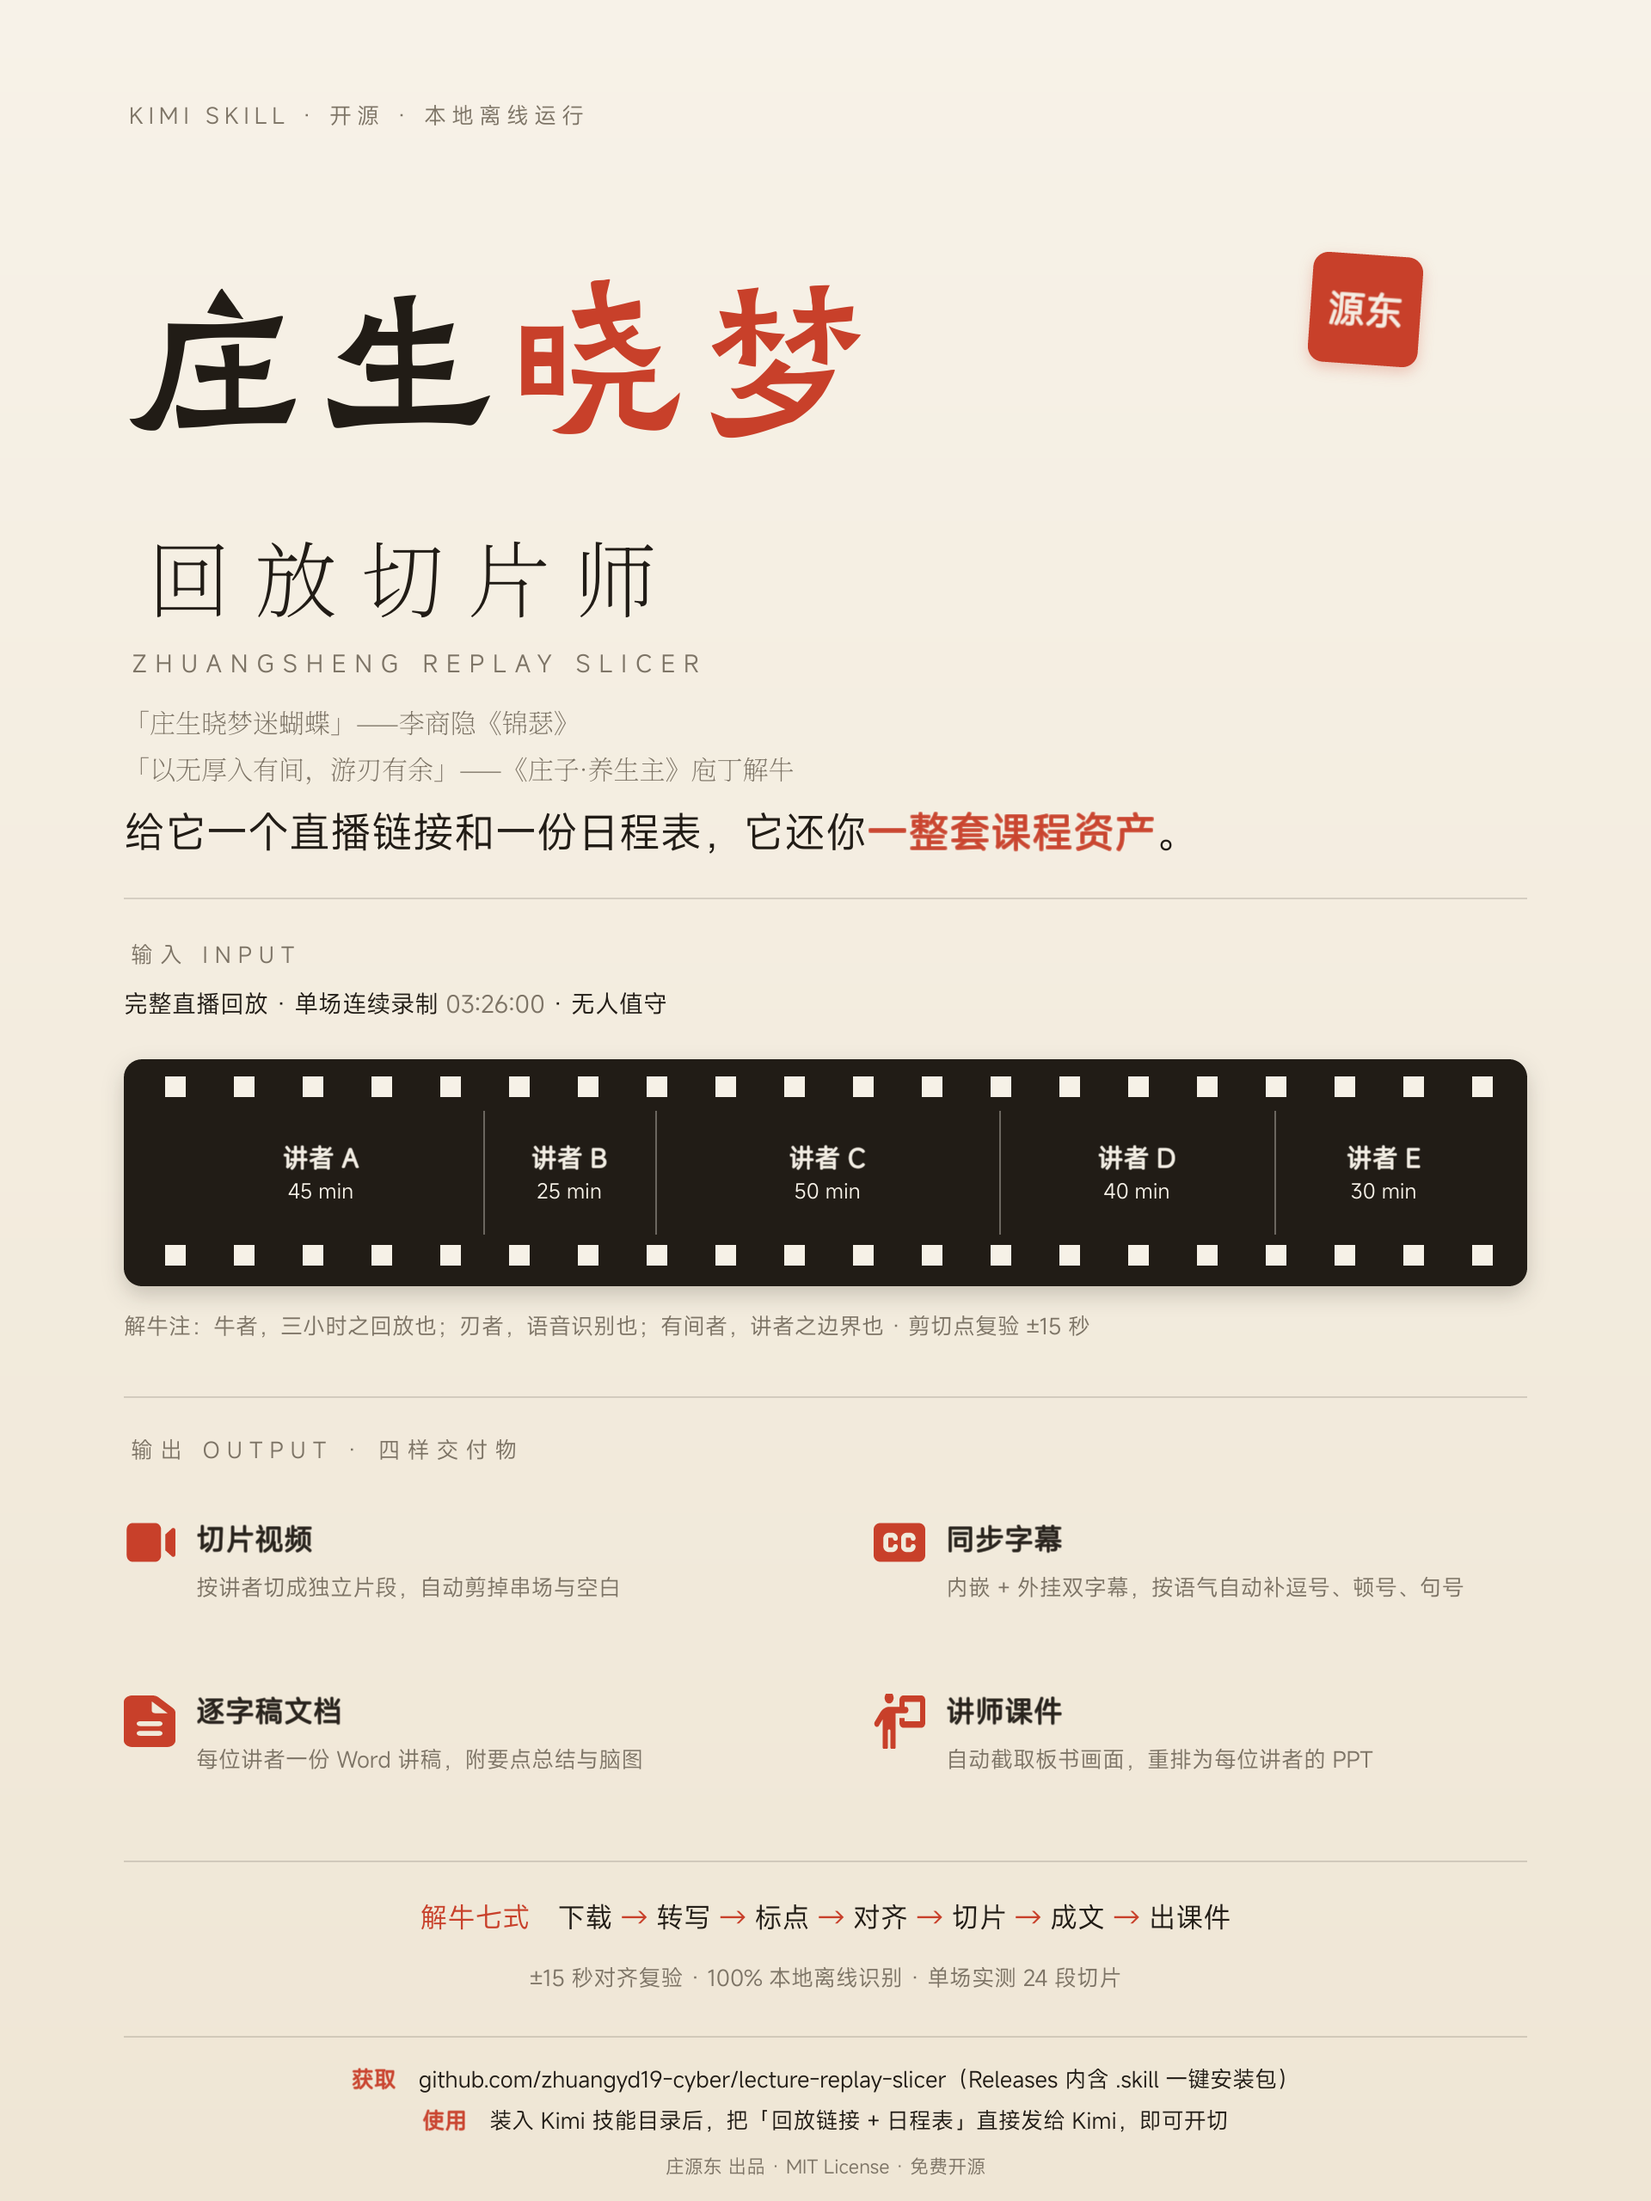
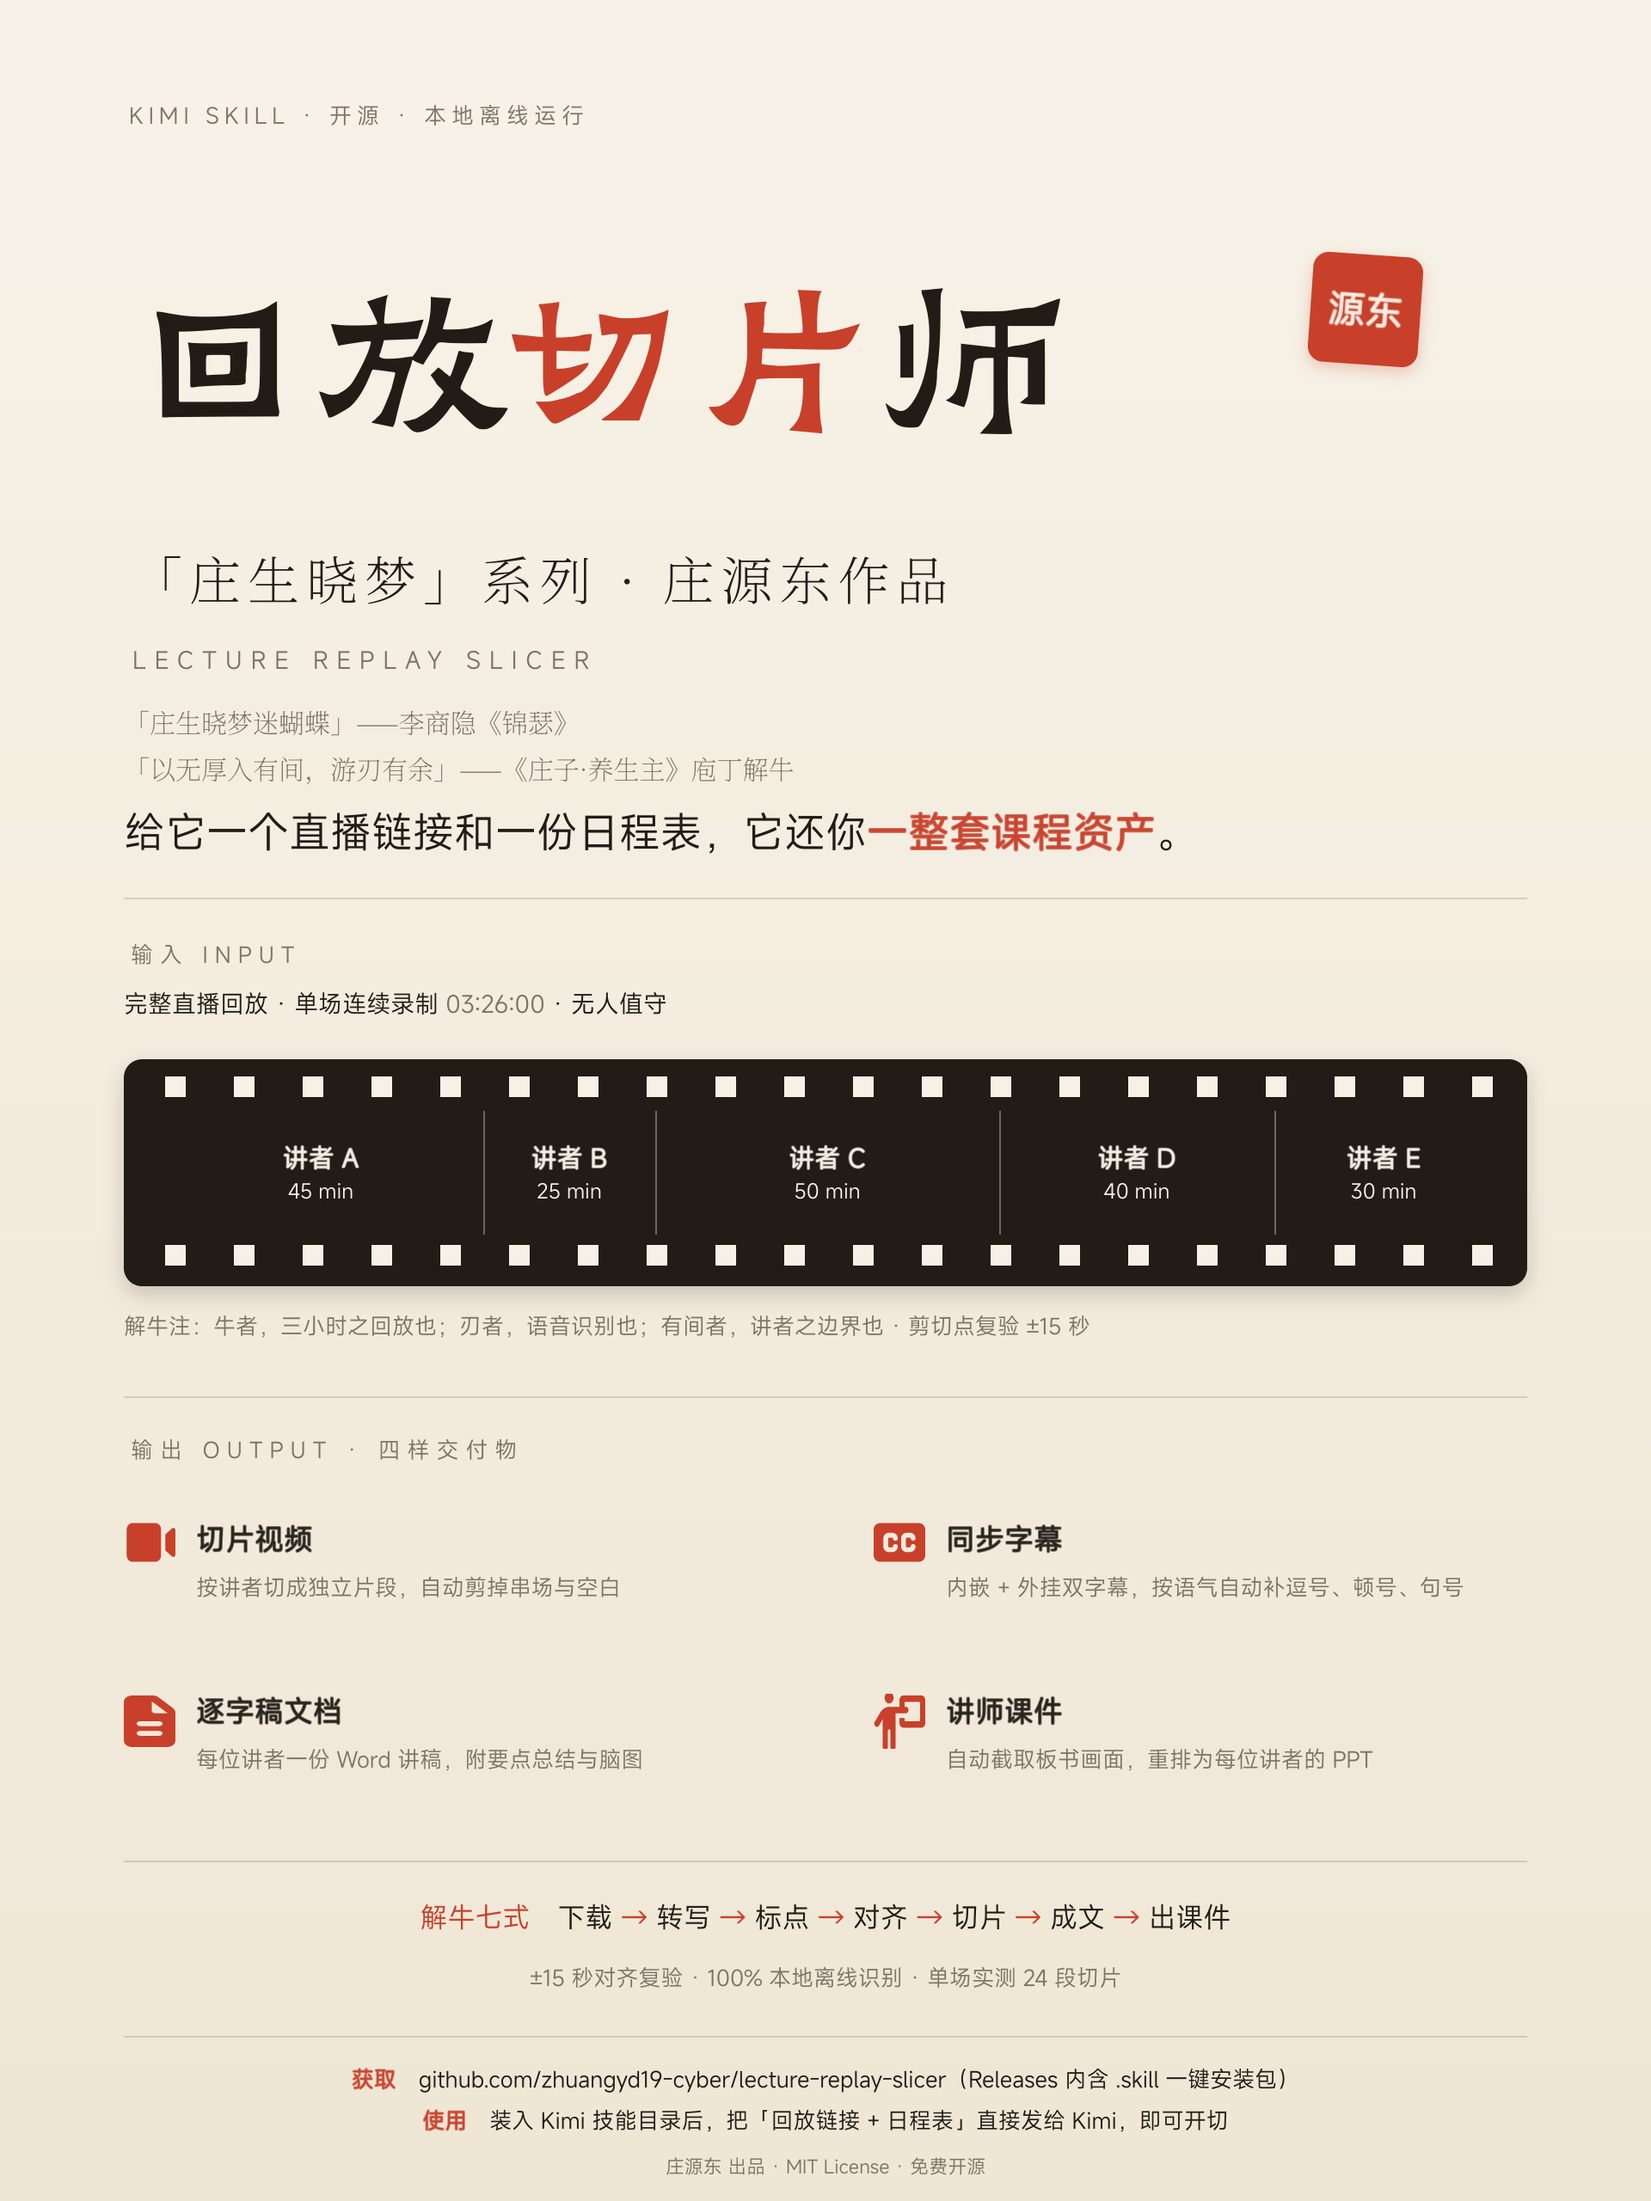
v1.10: 品牌层级调整——功能名「回放切片师」为主，「庄生晓梦」为系列雅号

Changed region(s): [[0.0938, 0.125, 0.4062, 0.2188], [0.0938, 0.25, 0.5625, 0.3125], [0.4375, 0.125, 0.6562, 0.2188]]

diff --git a/README.md b/README.md
@@ -1,4 +1,6 @@
-# 庄生晓梦 · 回放切片师（lecture-replay-slicer）
+# 回放切片师（lecture-replay-slicer）
+
+「庄生晓梦」系列 · 庄源东（zhuangyd19-cyber）作品
 
 ![海报](assets/poster.png)
 
